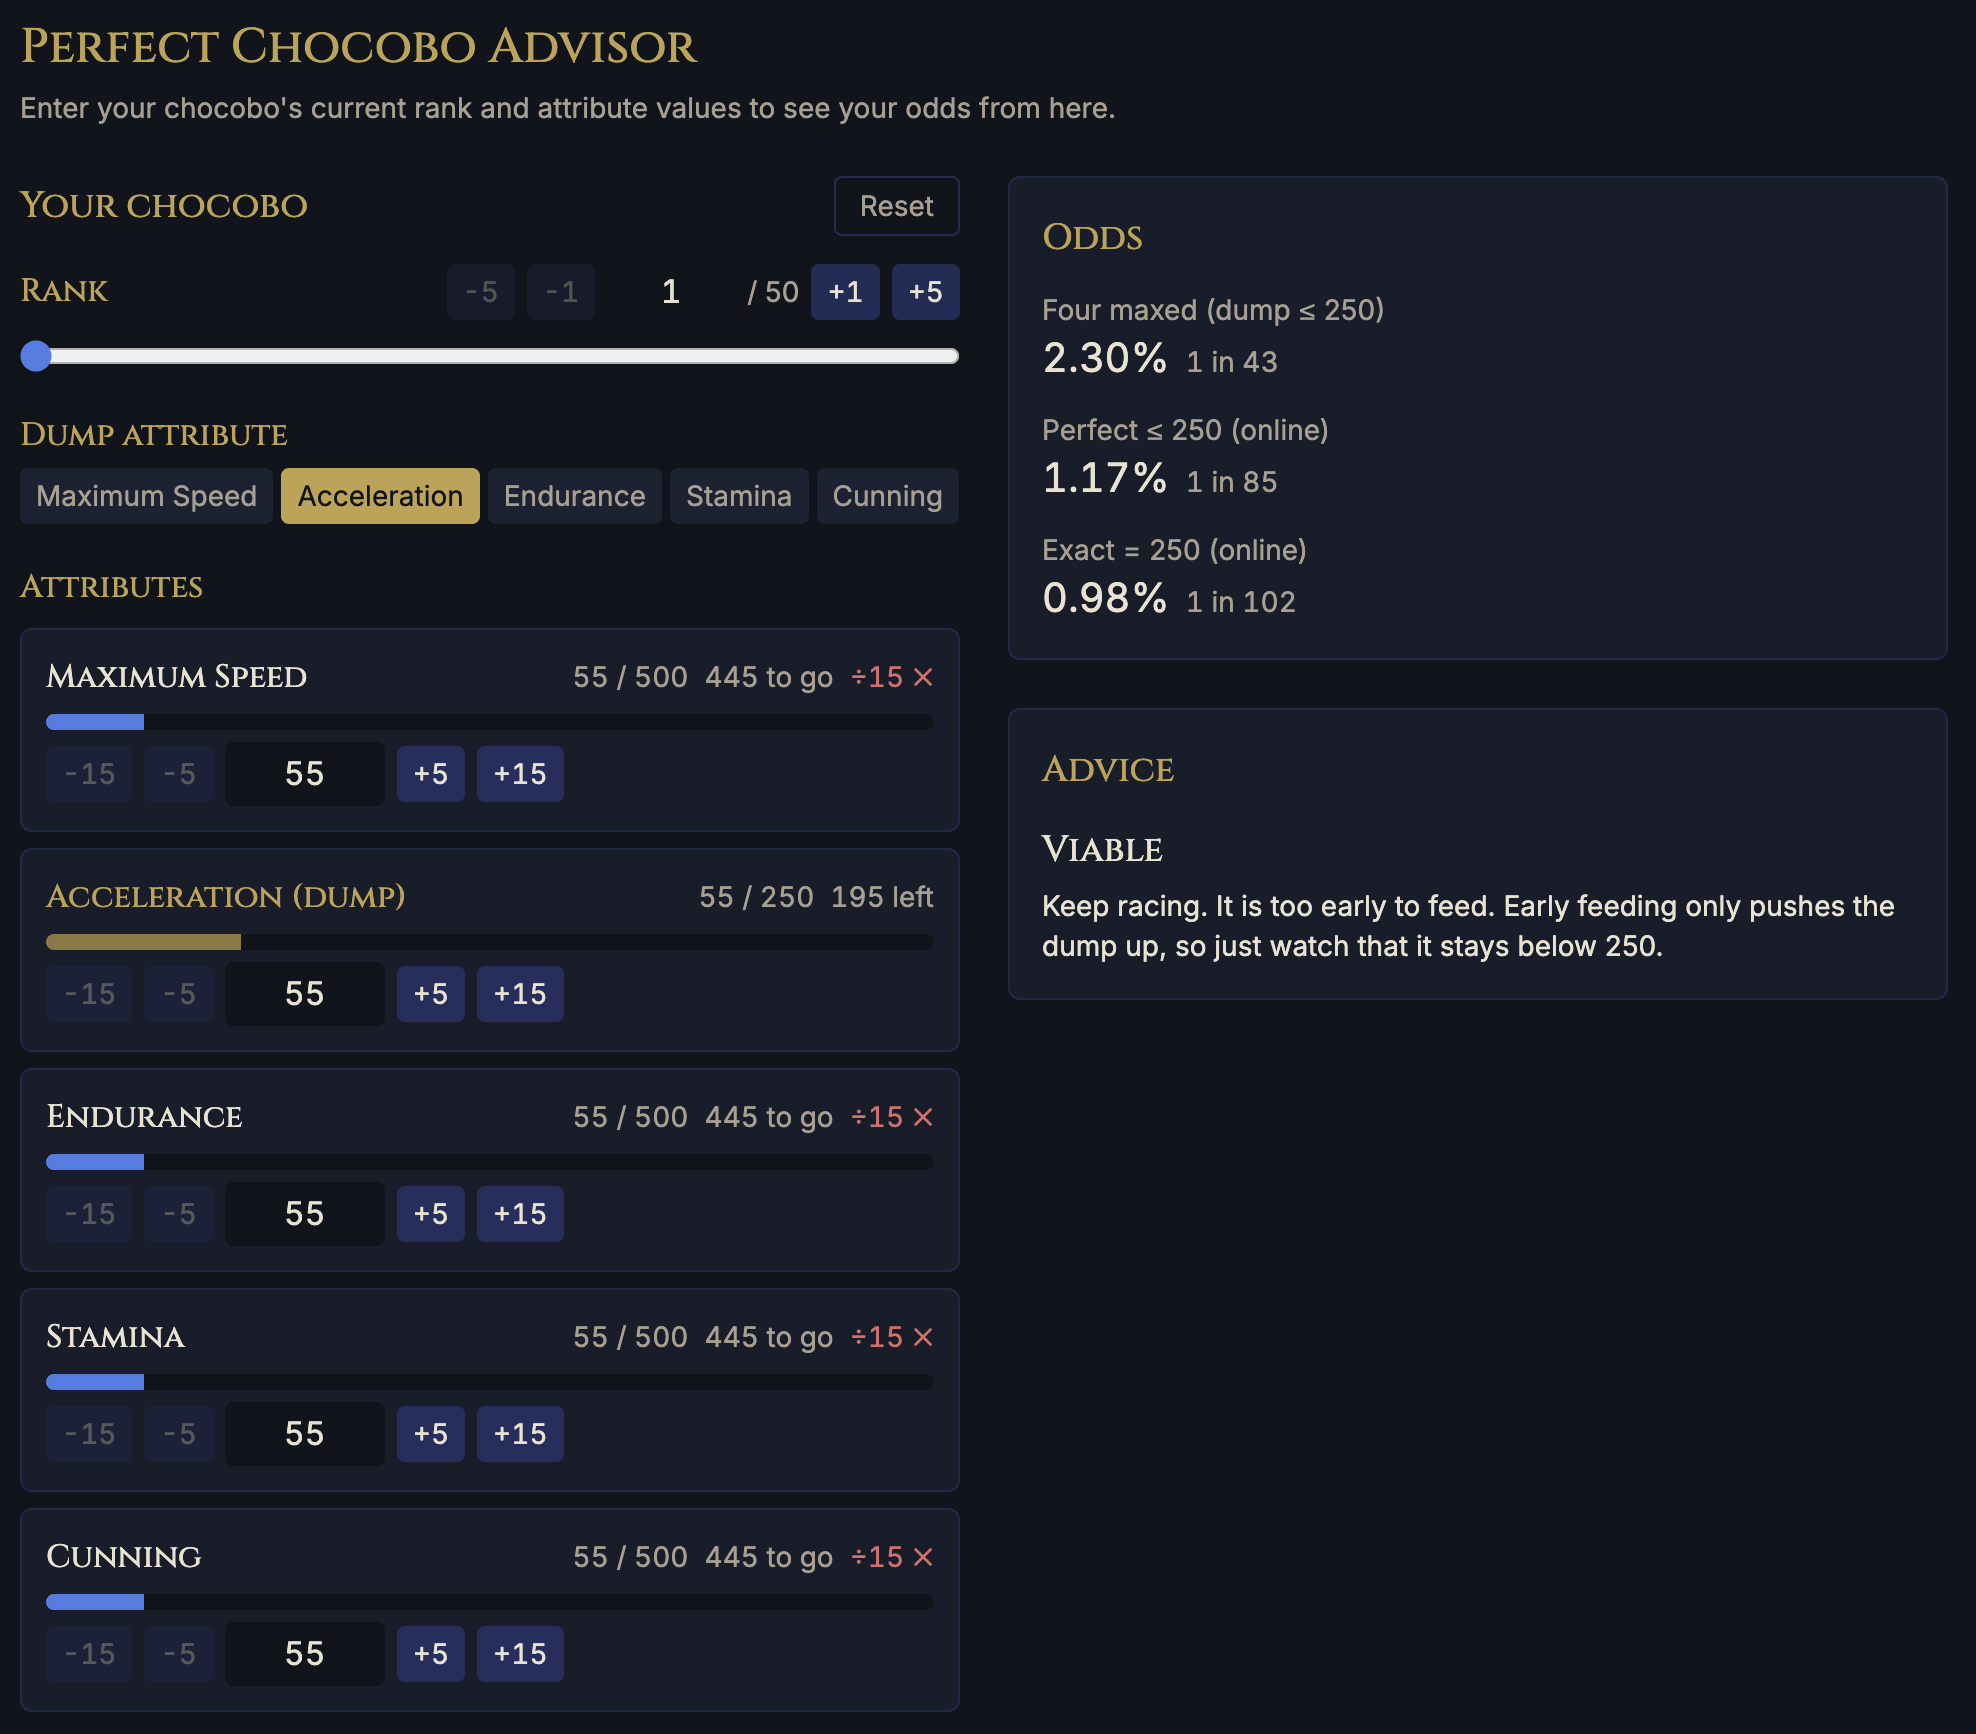
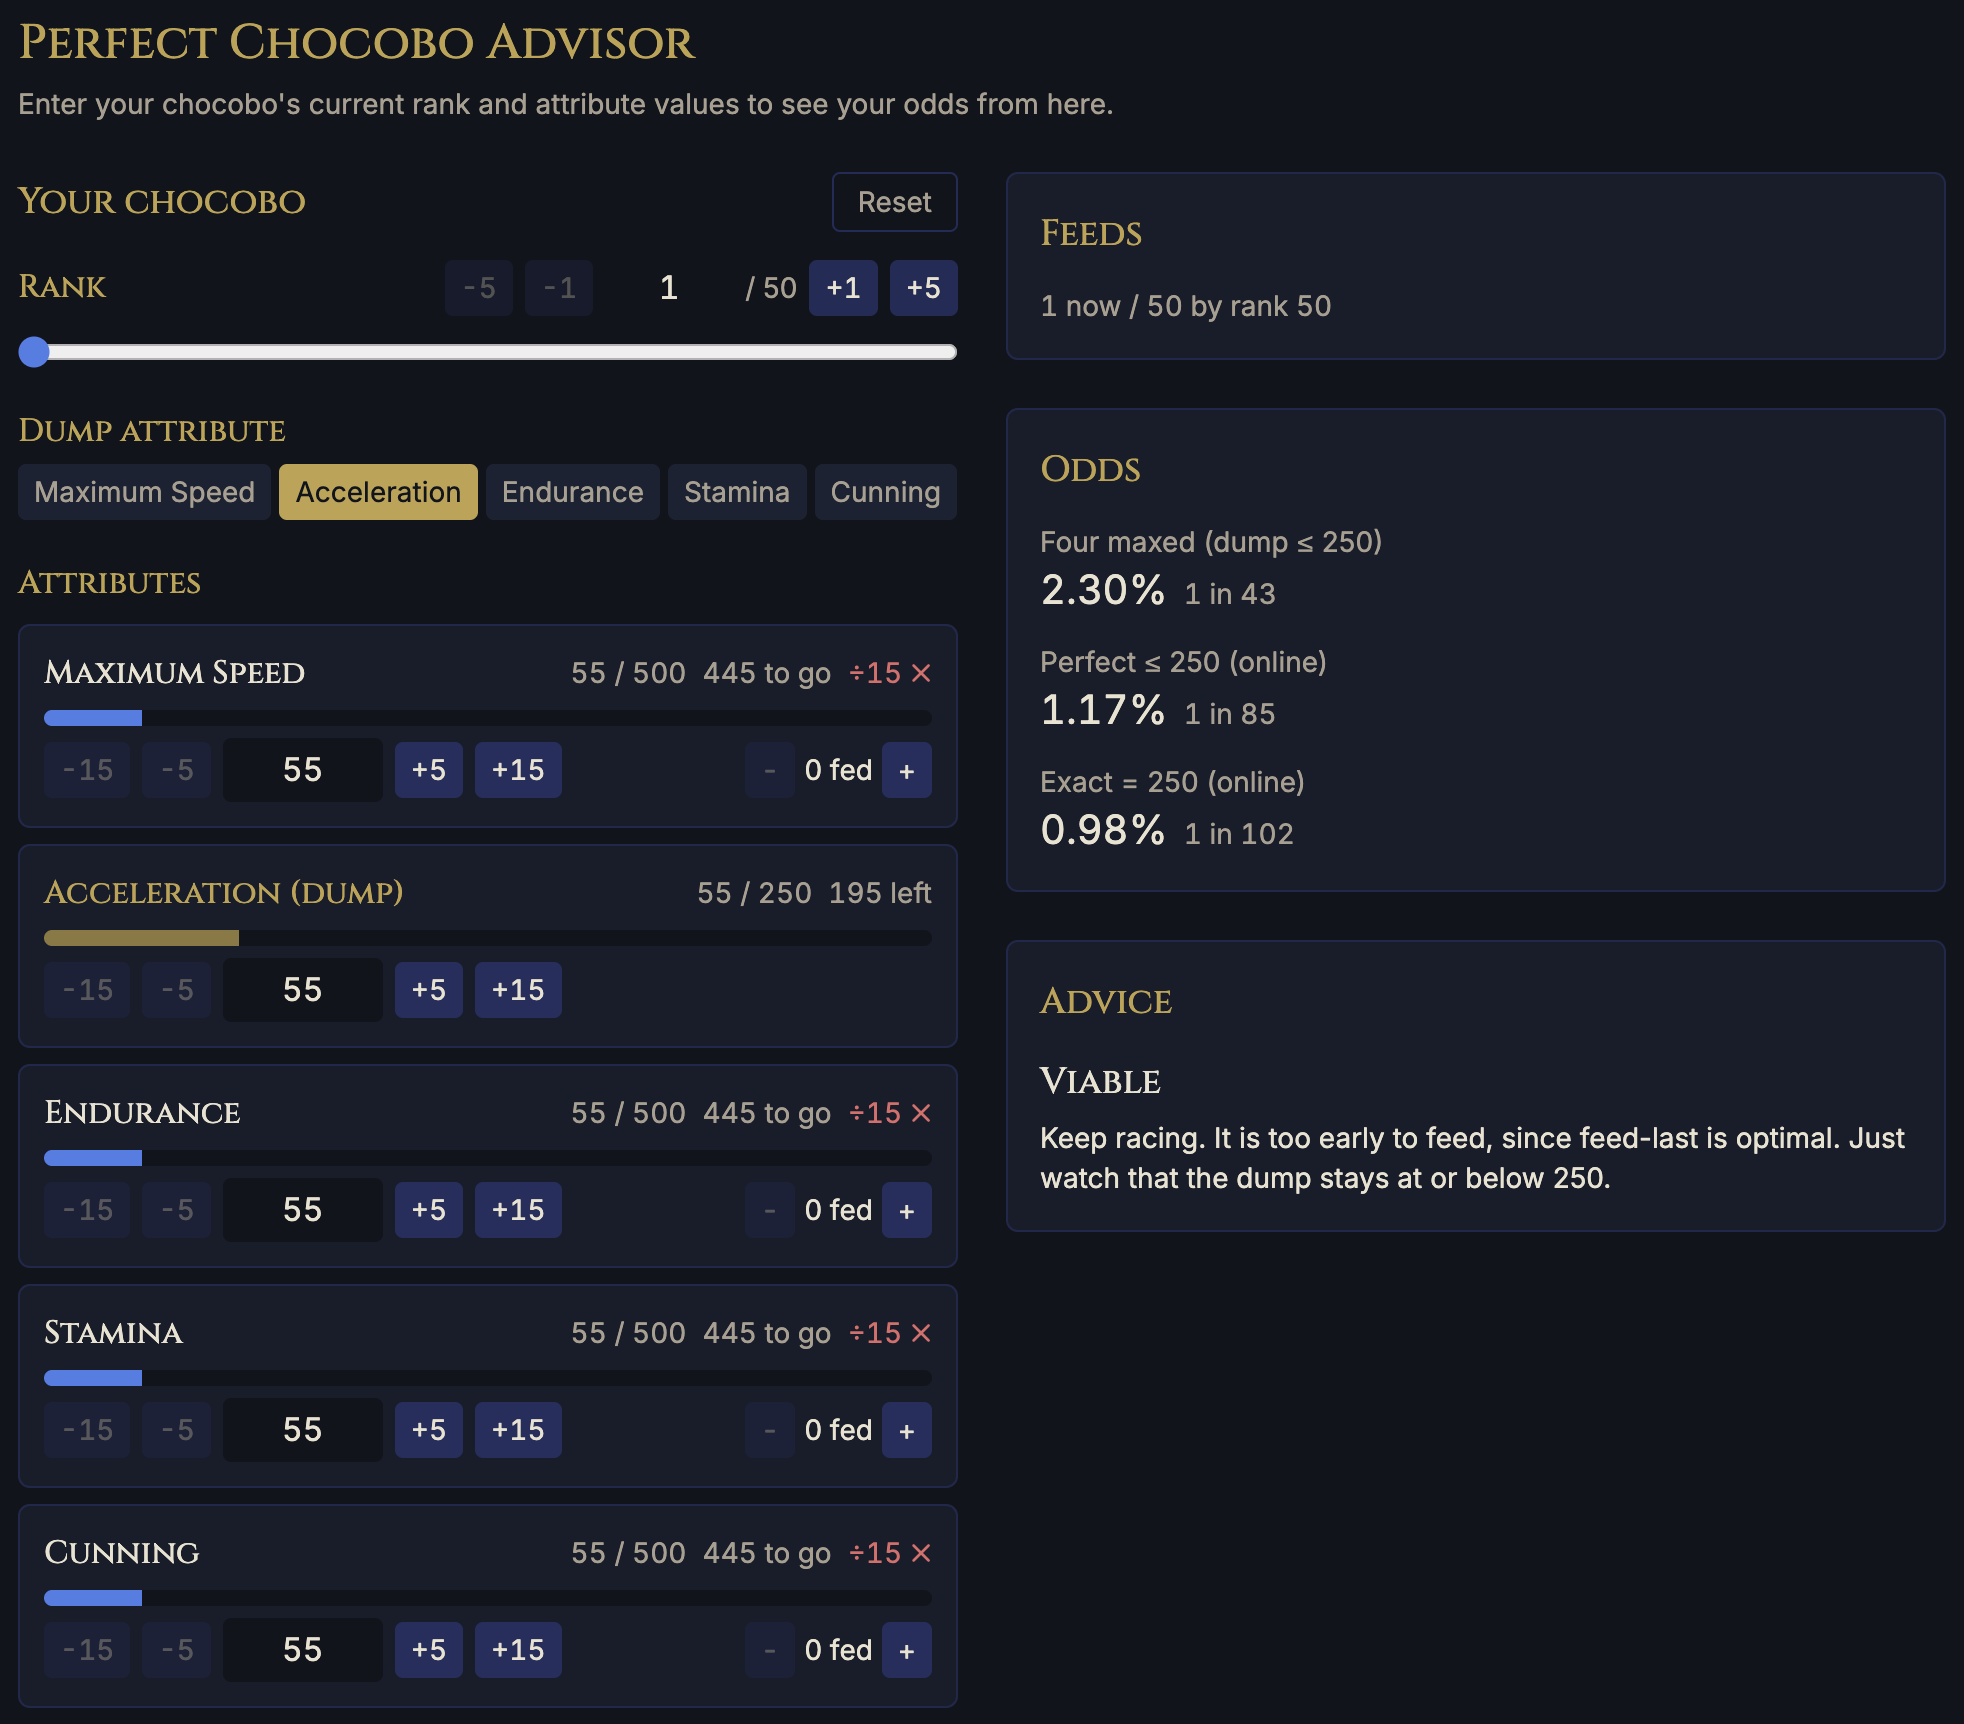
test: add mcp smoke test

diff --git a/mcp/server.ts b/mcp/server.ts
@@ -1,13 +1,14 @@
 /**
  * MCP server for the perfect-chocobo advisor. It imports the same pure math core as the
  * web app and exposes it as a tool, and it serves the game-mechanics reference and the
- * paper as resources.
+ * paper as resources. createServer builds the configured server, and when the file is run
+ * directly (npm run mcp) it is connected over stdio.
  *
  * Run with npm run mcp (node --experimental-strip-types).
  */
 
 import { readFileSync } from 'node:fs'
-import { fileURLToPath } from 'node:url'
+import { fileURLToPath, pathToFileURL } from 'node:url'
 import { dirname, join } from 'node:path'
 import { z } from 'zod'
 import { McpServer } from '@modelcontextprotocol/sdk/server/mcp.js'
@@ -20,81 +21,94 @@ import { MAX_RANK, NUM_STATS, SLOTS } from '../src/math/model.ts'
 
 const docsDir = join(dirname(fileURLToPath(import.meta.url)), '..', 'docs')
 
-const server = new McpServer({ name: 'chocobo-advisor', version: '0.1.0' })
+/**
+ * Build the configured MCP server with the chocobo_odds tool and the research and paper
+ * resources, without connecting any transport.
+ *
+ * @returns the configured server
+ */
+export function createServer(): McpServer {
+  const server = new McpServer({ name: 'chocobo-advisor', version: '0.1.0' })
 
-server.registerTool(
-  'chocobo_odds',
-  {
-    title: 'Chocobo perfect-finish odds',
-    description:
-      'Given a chocobo mid-raise, return the odds of perfecting four attributes from here ' +
-      'and the recommended action. values are five points in the range 55 to 500 in steps ' +
-      'of 5, in the order Maximum Speed, Acceleration, Endurance, Stamina, Cunning. ' +
-      'dumpIndex is which attribute (0 to 4) is the dump.',
-    inputSchema: {
-      rank: z.number().int().min(1).max(MAX_RANK),
-      values: z.array(z.number().int()).length(NUM_STATS),
-      dumpIndex: z
-        .number()
-        .int()
-        .min(0)
-        .max(NUM_STATS - 1),
-      slotsSpent: z.number().int().min(0).max(SLOTS).optional(),
+  server.registerTool(
+    'chocobo_odds',
+    {
+      title: 'Chocobo perfect-finish odds',
+      description:
+        'Given a chocobo mid-raise, return the odds of perfecting four attributes from here ' +
+        'and the recommended action. values are five points in the range 55 to 500 in steps ' +
+        'of 5, in the order Maximum Speed, Acceleration, Endurance, Stamina, Cunning. ' +
+        'dumpIndex is which attribute (0 to 4) is the dump.',
+      inputSchema: {
+        rank: z.number().int().min(1).max(MAX_RANK),
+        values: z.array(z.number().int()).length(NUM_STATS),
+        dumpIndex: z
+          .number()
+          .int()
+          .min(0)
+          .max(NUM_STATS - 1),
+        slotsSpent: z.number().int().min(0).max(SLOTS).optional(),
+      },
     },
-  },
-  async ({ rank, values, dumpIndex, slotsSpent }) => {
-    const state = parseState({ rank, values, dumpIndex, slotsSpent: slotsSpent ?? 0 })
-    if (state === null) {
-      return {
-        isError: true,
-        content: [{ type: 'text', text: 'Invalid chocobo state. Values must be 55 to 500 in steps of 5.' }],
+    async ({ rank, values, dumpIndex, slotsSpent }) => {
+      const state = parseState({ rank, values, dumpIndex, slotsSpent: slotsSpent ?? 0 })
+      if (state === null) {
+        return {
+          isError: true,
+          content: [{ type: 'text', text: 'Invalid chocobo state. Values must be 55 to 500 in steps of 5.' }],
+        }
       }
-    }
-    const result = advise(state)
-    const lines = [
-      `Status ${result.status}`,
-      `Four maxed (dump at most 250) ${formatPercent(result.fourFixedDump)} (${formatOdds(result.fourFixedDump)})`,
-      `Perfect at most 250, online ${formatPercent(result.onlineLe250)} (${formatOdds(result.onlineLe250)})`,
-      `Exact 250, online ${formatPercent(result.onlineEq250)} (${formatOdds(result.onlineEq250)})`,
-      `Perfect lineup reachable ${result.perfectReachable ? 'yes' : 'no'}`,
-      `Advice. ${result.headline}`,
-    ]
-    for (const target of result.targetAdvice) {
-      lines.push(`  ${STAT_NAMES[target.index]} ${target.label}`)
-    }
-    return {
-      content: [
-        { type: 'text', text: lines.join('\n') },
-        { type: 'text', text: JSON.stringify(result) },
-      ],
-    }
-  },
-)
+      const result = advise(state)
+      const lines = [
+        `Status ${result.status}`,
+        `Four maxed (dump at most 250) ${formatPercent(result.fourFixedDump)} (${formatOdds(result.fourFixedDump)})`,
+        `Perfect at most 250, online ${formatPercent(result.onlineLe250)} (${formatOdds(result.onlineLe250)})`,
+        `Exact 250, online ${formatPercent(result.onlineEq250)} (${formatOdds(result.onlineEq250)})`,
+        `Perfect lineup reachable ${result.perfectReachable ? 'yes' : 'no'}`,
+        `Advice. ${result.headline}`,
+      ]
+      for (const target of result.targetAdvice) {
+        lines.push(`  ${STAT_NAMES[target.index]} ${target.label}`)
+      }
+      return {
+        content: [
+          { type: 'text', text: lines.join('\n') },
+          { type: 'text', text: JSON.stringify(result) },
+        ],
+      }
+    },
+  )
 
-server.registerResource(
-  'research',
-  'chocobo://research',
-  {
-    title: 'FFXIV chocobo racing game-mechanics reference',
-    description: 'The verified game-mechanics reference behind the model.',
-    mimeType: 'text/markdown',
-  },
-  async (uri) => ({
-    contents: [{ uri: uri.href, text: readFileSync(join(docsDir, 'chocobo-racing-research.md'), 'utf8') }],
-  }),
-)
+  server.registerResource(
+    'research',
+    'chocobo://research',
+    {
+      title: 'FFXIV chocobo racing game-mechanics reference',
+      description: 'The verified game-mechanics reference behind the model.',
+      mimeType: 'text/markdown',
+    },
+    async (uri) => ({
+      contents: [{ uri: uri.href, text: readFileSync(join(docsDir, 'chocobo-racing-research.md'), 'utf8') }],
+    }),
+  )
 
-server.registerResource(
-  'paper',
-  'chocobo://paper',
-  {
-    title: 'Perfecting a Final Chocobo, paper source',
-    description: 'The LaTeX source of the probability paper, with every derivation and proof.',
-    mimeType: 'text/x-tex',
-  },
-  async (uri) => ({
-    contents: [{ uri: uri.href, text: readFileSync(join(docsDir, 'chocobo-racing-probability.tex'), 'utf8') }],
-  }),
-)
+  server.registerResource(
+    'paper',
+    'chocobo://paper',
+    {
+      title: 'Perfecting a Final Chocobo, paper source',
+      description: 'The LaTeX source of the probability paper, with every derivation and proof.',
+      mimeType: 'text/x-tex',
+    },
+    async (uri) => ({
+      contents: [{ uri: uri.href, text: readFileSync(join(docsDir, 'chocobo-racing-probability.tex'), 'utf8') }],
+    }),
+  )
 
-await server.connect(new StdioServerTransport())
+  return server
+}
+
+// Connect over stdio only when run directly (npm run mcp), not when imported by a test.
+if (process.argv[1] && import.meta.url === pathToFileURL(process.argv[1]).href) {
+  await createServer().connect(new StdioServerTransport())
+}

diff --git a/test/mcp/server.test.ts b/test/mcp/server.test.ts
@@ -1,0 +1,61 @@
+import { describe, it, expect } from 'vitest'
+import { Client } from '@modelcontextprotocol/sdk/client/index.js'
+import { InMemoryTransport } from '@modelcontextprotocol/sdk/inMemory.js'
+import { createServer } from '../../mcp/server.ts'
+
+/** A text content block, the only kind the chocobo server returns. */
+type TextBlock = { type: string; text: string }
+
+/** Connect a fresh client to a fresh server over a linked in-memory transport pair. */
+async function connectedClient(): Promise<Client> {
+  const [clientTransport, serverTransport] = InMemoryTransport.createLinkedPair()
+  const server = createServer()
+  const client = new Client({ name: 'smoke-test', version: '0.0.0' })
+  await Promise.all([server.connect(serverTransport), client.connect(clientTransport)])
+  return client
+}
+
+describe('mcp server', () => {
+  it('lists the chocobo_odds tool', async () => {
+    const client = await connectedClient()
+    const { tools } = await client.listTools()
+    expect(tools.map((tool) => tool.name)).toContain('chocobo_odds')
+  })
+
+  it('returns odds and advice for a fresh chocobo', async () => {
+    const client = await connectedClient()
+    const result = await client.callTool({
+      name: 'chocobo_odds',
+      arguments: { rank: 1, values: [55, 55, 55, 55, 55], dumpIndex: 1 },
+    })
+    const blocks = result.content as TextBlock[]
+    expect(blocks[0].text).toContain('Four maxed')
+    const payload = JSON.parse(blocks[1].text)
+    expect(payload.fourFixedDump).toBeCloseTo(0.023015, 4)
+  }, 20000)
+
+  it('flags invalid input as an error', async () => {
+    const client = await connectedClient()
+    const result = await client.callTool({
+      name: 'chocobo_odds',
+      arguments: { rank: 1, values: [50, 55, 55, 55, 55], dumpIndex: 1 }, // 50 is below the 55 floor
+    })
+    expect(result.isError).toBe(true)
+  })
+
+  it('serves the research and paper resources', async () => {
+    const client = await connectedClient()
+    const research = await client.readResource({ uri: 'chocobo://research' })
+    expect((research.contents[0] as { text: string }).text).toContain('Chocobo Racing')
+    const paper = await client.readResource({ uri: 'chocobo://paper' })
+    expect((paper.contents[0] as { text: string }).text).toContain('Perfecting a Final Chocobo')
+  })
+
+  it('lists both resources', async () => {
+    const client = await connectedClient()
+    const { resources } = await client.listResources()
+    const uris = resources.map((resource) => resource.uri)
+    expect(uris).toContain('chocobo://research')
+    expect(uris).toContain('chocobo://paper')
+  })
+})
